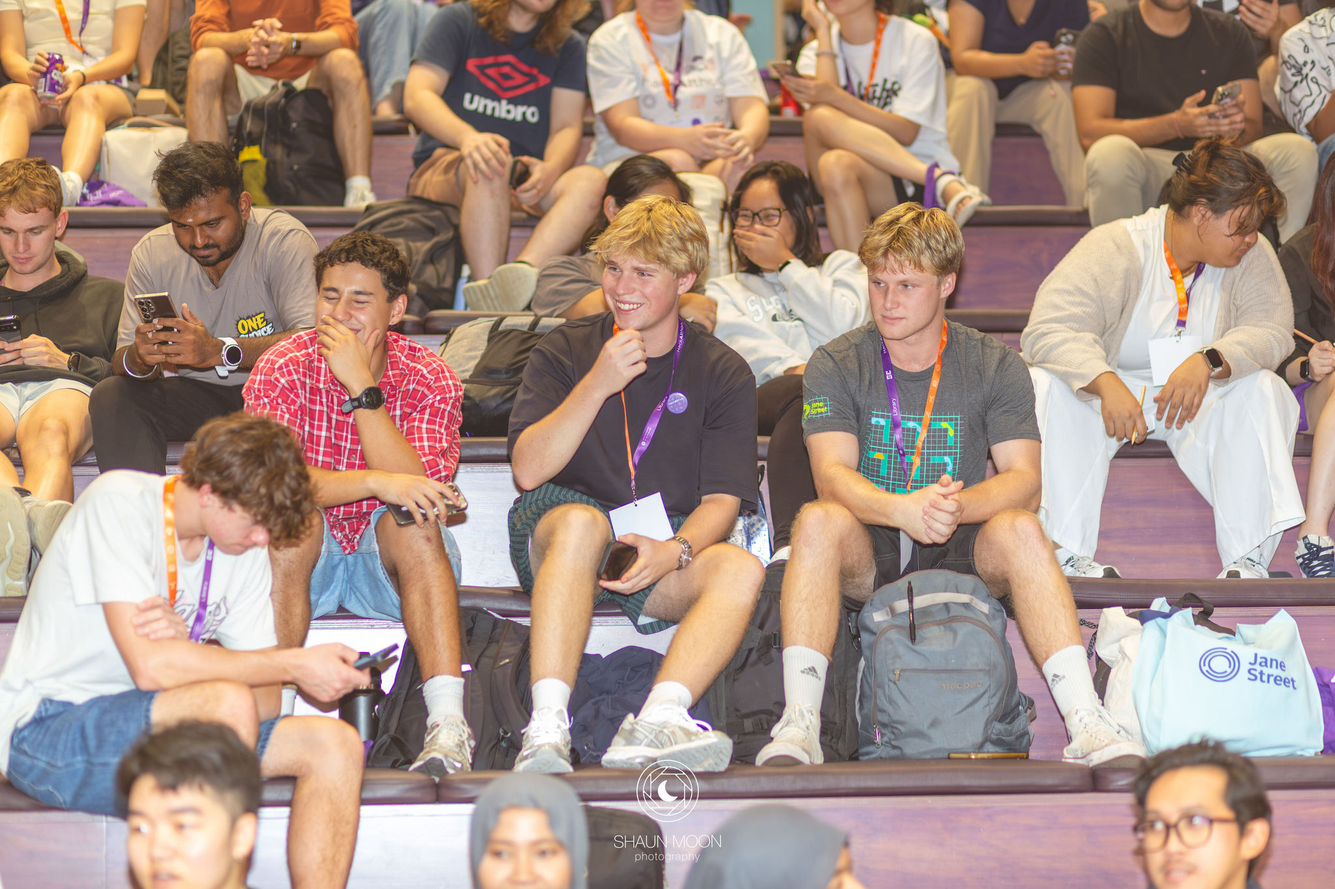
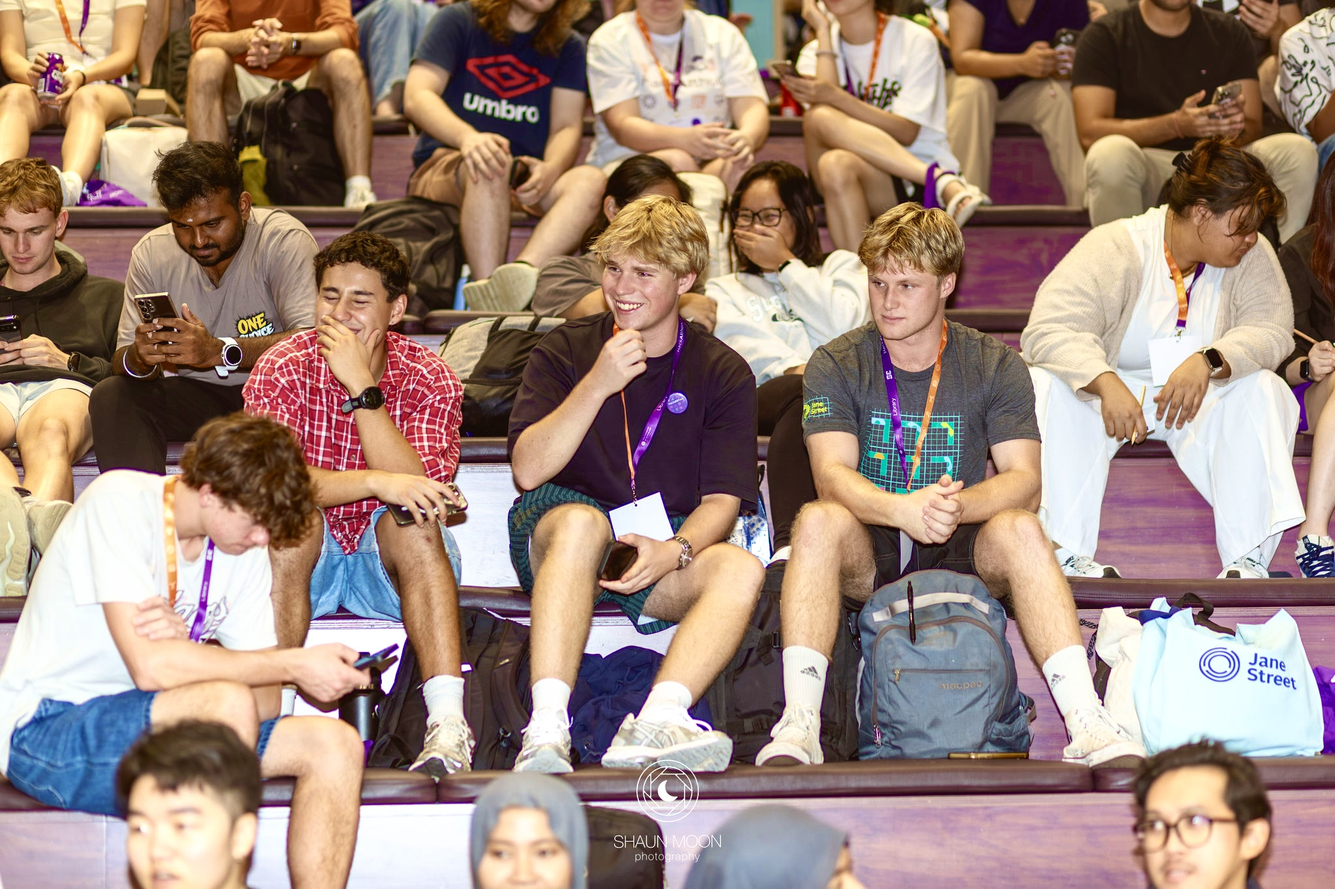
minor update

diff --git a/index.html b/index.html
@@ -28,7 +28,7 @@
 
     <nav class="main-nav" id="mainNav">
       <a href="#vision">Vision</a>
-      <a href="#mission">Mission</a>
+      <!-- <a href="#mission">Mission</a> -->
       <a href="#packages">Packages</a>
       <a href="#contact">Contact</a>
     </nav>
@@ -56,7 +56,7 @@
       </div>
 
       <div class="hero-copy">
-        <p class="eyebrow">Placeholder</p>
+        <!-- <p class="eyebrow">Placeholder</p> -->
         <h1>Growing the next generation of sustainable innovators.</h1>
         <p class="hero-lede">We partner with schools to turn sustainability from a subject on a page into something students actually build, test, and lead.</p>
         <div class="hero-actions">
@@ -113,12 +113,11 @@
             <span class="contact-label">Email</span>
             <a href="mailto:sustainableinnovatorsco@gmail.com">sustainableinnovatorsco@gmail.com</a>
           </li>
-          <li>
+          <!-- <li>
             <span class="contact-label">Phone</span>
             <a href="tel:+10000000000">+1 (000) 000-0000</a>
-          </li>
+          </li> -->
         </ul>
-        <p class="contact-note">Placeholder contact details — update these with your real email and phone number.</p>
       </div>
 
       <form class="enquiry-form" id="enquiryForm" novalidate>

diff --git a/script.js b/script.js
@@ -44,7 +44,7 @@ const PACKAGES = [
   {
     title: 'Urban Grower',
     cost: '$60 per student',
-    image: 'images/4-week-challenge.png',
+    image: 'images/4-week-challenge.jpg',
     summary: 'A four-week program where students explore sustainable food production through aquaponics, hydroponics, and vertical farming while designing and building their own growing system.',
     details: 'Four-week program (one session per week) where students explore sustainable food production through aquaponics, hydroponics, and vertical farming systems. Participants learn the principles of circular economy, sustainable agriculture, and resource efficiency while designing and building their own growing system. The program demonstrates how fresh produce can be grown using minimal land and water resources, providing practical solutions for future food security challenges.',
   }
